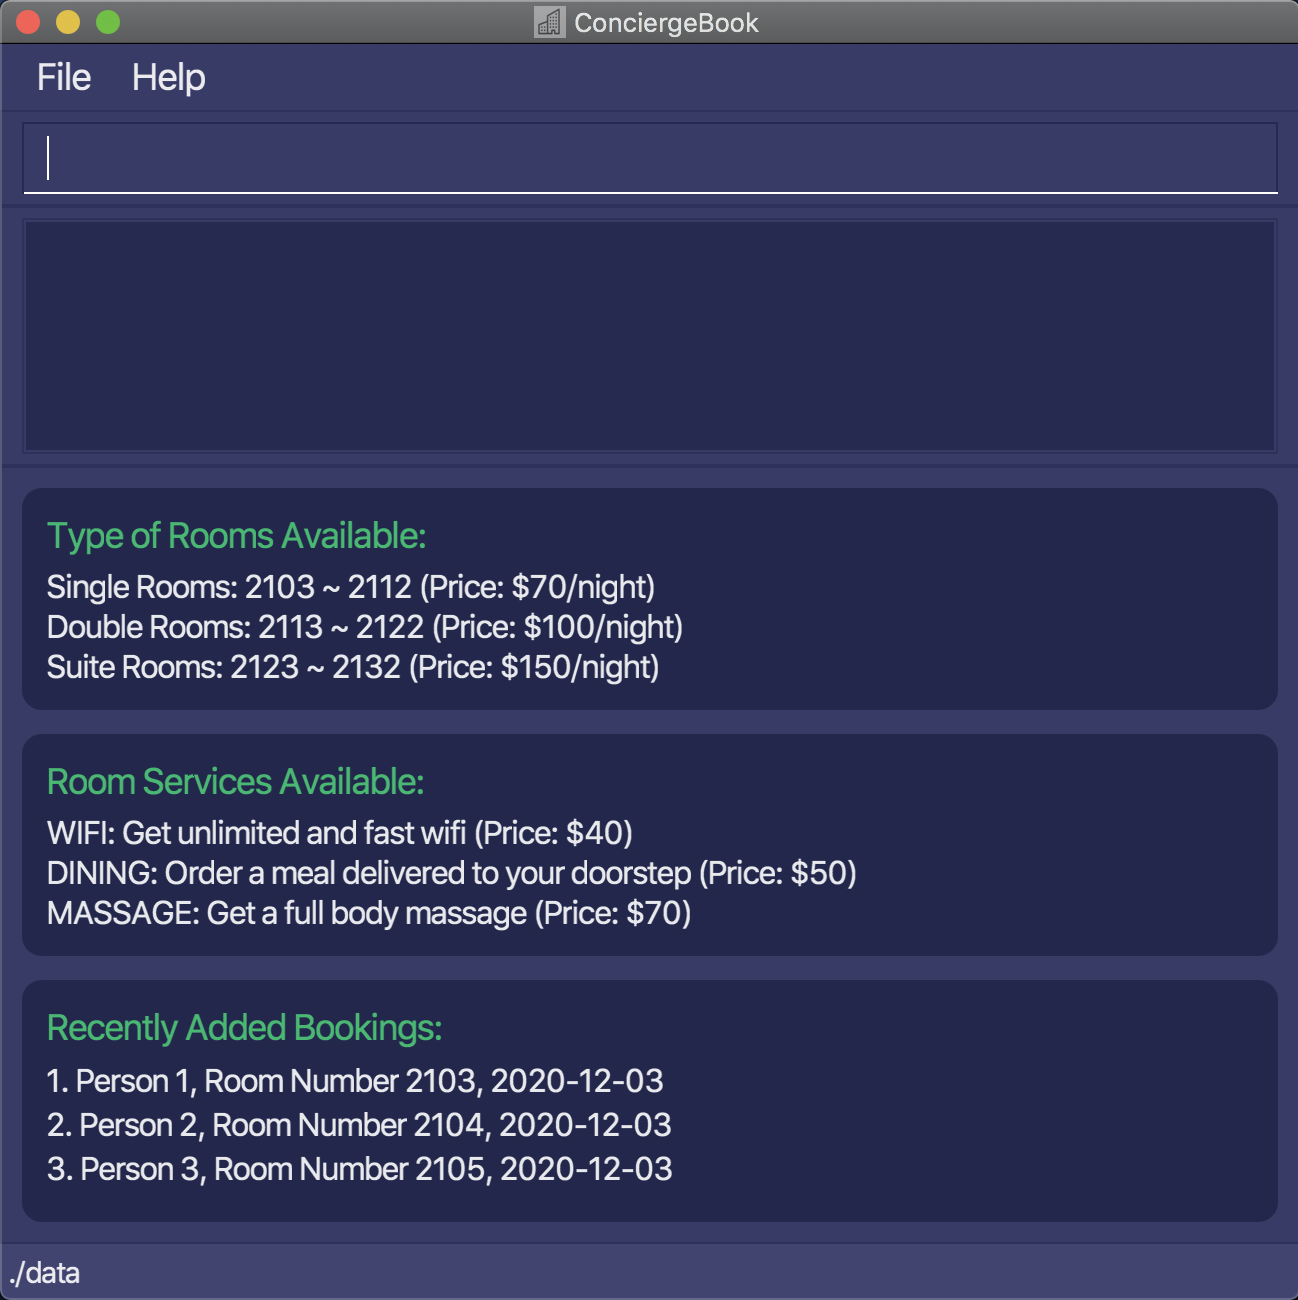
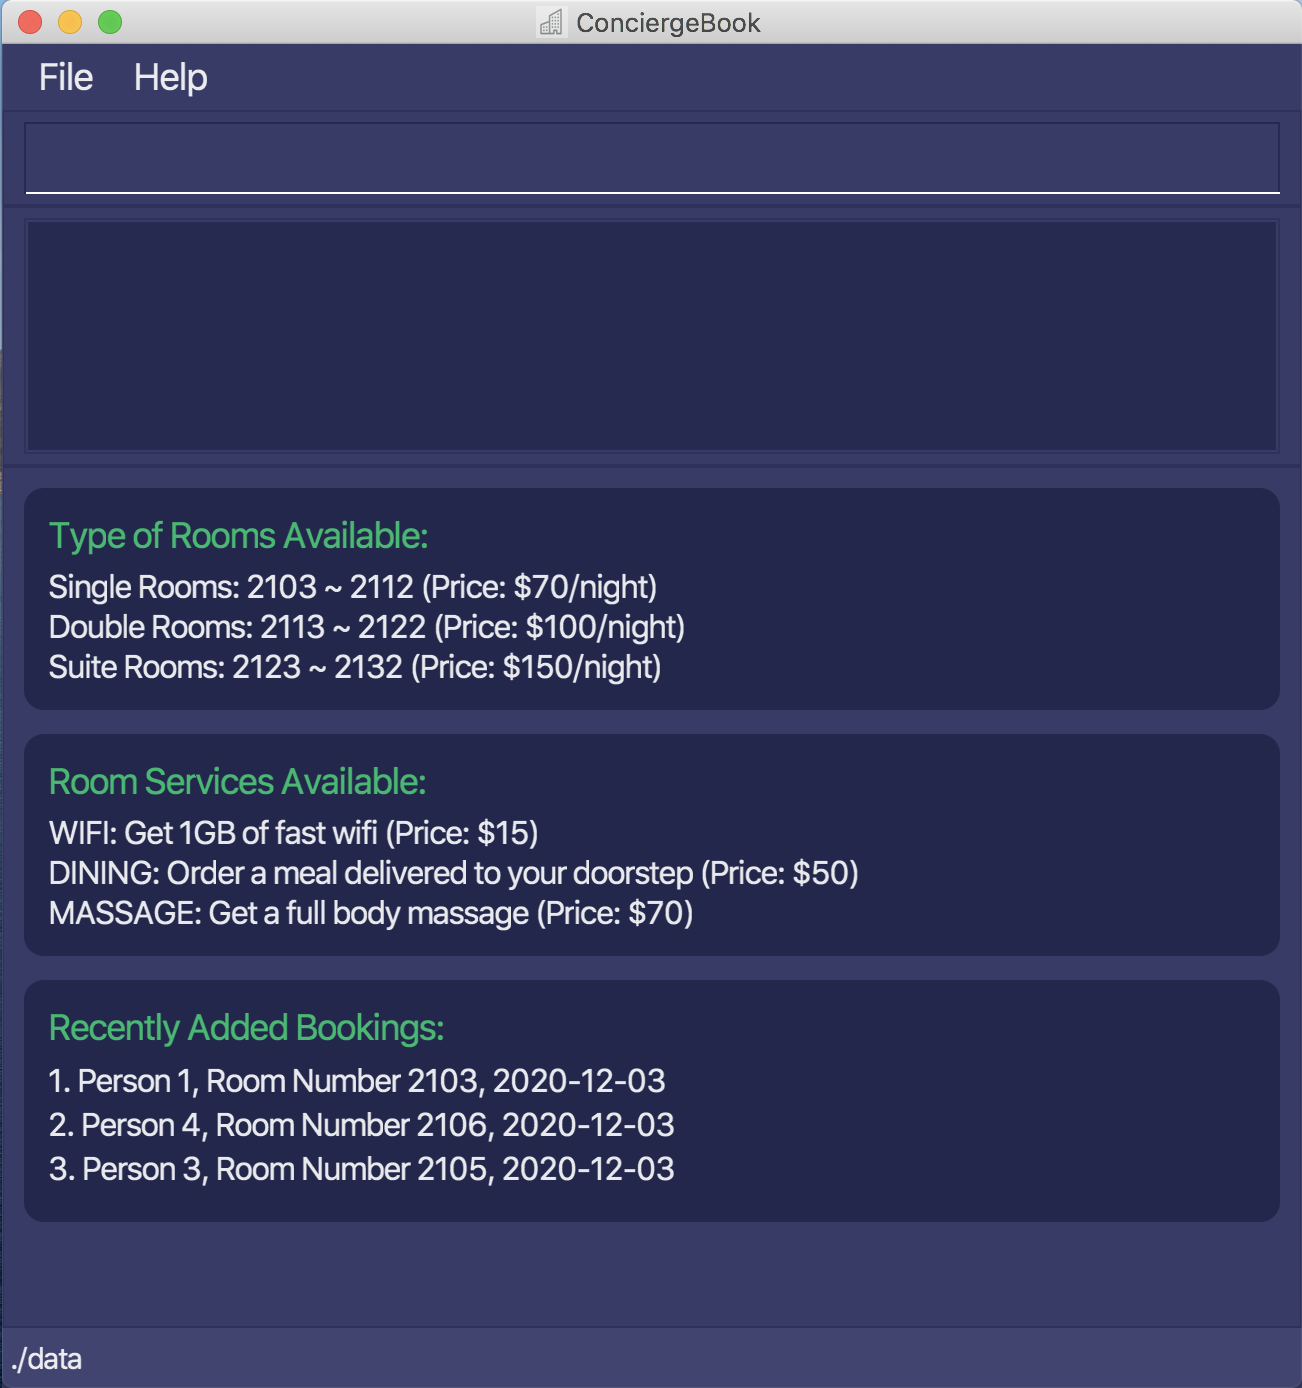
Change price of wifi and display in home page

Changed region(s): [[0.0, 0.3385, 0.9861, 1.0], [0.0, 0.0, 1.0, 0.0923], [0.0308, 0.1231, 0.9861, 0.1538]]

diff --git a/src/main/java/seedu/address/ui/HomePagePanel.java b/src/main/java/seedu/address/ui/HomePagePanel.java
@@ -57,7 +57,7 @@ public class HomePagePanel extends UiPart<Region> {
         suiteRoomsText.setText(
                 "Suite Rooms: 2123 ~ 2132 (Price: $150/night)");
         roomServicesTitle.setText("Room Services Available:");
-        wifiService.setText("WIFI: Get unlimited and fast wifi (Price: $40)");
+        wifiService.setText("WIFI: Get 1GB of fast wifi (Price: $15)");
         diningService.setText("DINING: Order a meal delivered to your doorstep (Price: $50)");
         massageService.setText("MASSAGE: Get a full body massage (Price: $70)");
         recentBookingsTitle.setText("Recently Added Bookings:");

diff --git a/src/test/java/seedu/address/logic/commands/GetBillCommandTest.java b/src/test/java/seedu/address/logic/commands/GetBillCommandTest.java
@@ -41,10 +41,10 @@ public class GetBillCommandTest {
                 + "Price per night: $70\n"
                 + "Room services ordered:\n"
                 + "Massaging service: $70\n"
-                + "Wifi service: $40\n"
+                + "Wifi service: $15\n"
                 + "Dining in service: $50\n"
                 + "\n"
-                + "Nett bill for booking id 14 = $860";
+                + "Nett bill for booking id 14 = $835";
 
         GetBillCommand command = new GetBillCommand(VALID_BOOKING_ID_DAN);
         assertEquals(expected, command.execute(model).getFeedbackToUser());

diff --git a/src/main/java/seedu/address/model/roomservice/RoomServiceType.java b/src/main/java/seedu/address/model/roomservice/RoomServiceType.java
@@ -4,7 +4,7 @@ import java.util.Arrays;
 import java.util.stream.Collectors;
 
 public enum RoomServiceType {
-    WIFI("WIFI", "Wifi service", 40),
+    WIFI("WIFI", "Wifi service", 15),
     DINING("DINING", "Dining in service", 50),
     MASSAGE("MASSAGE", "Massaging service", 70);
 
